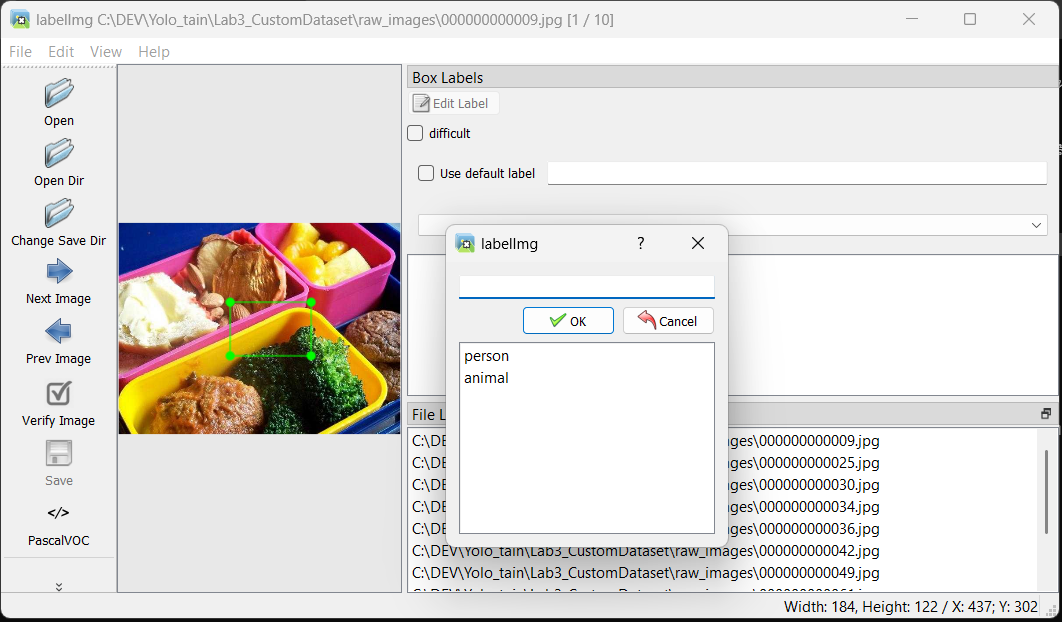
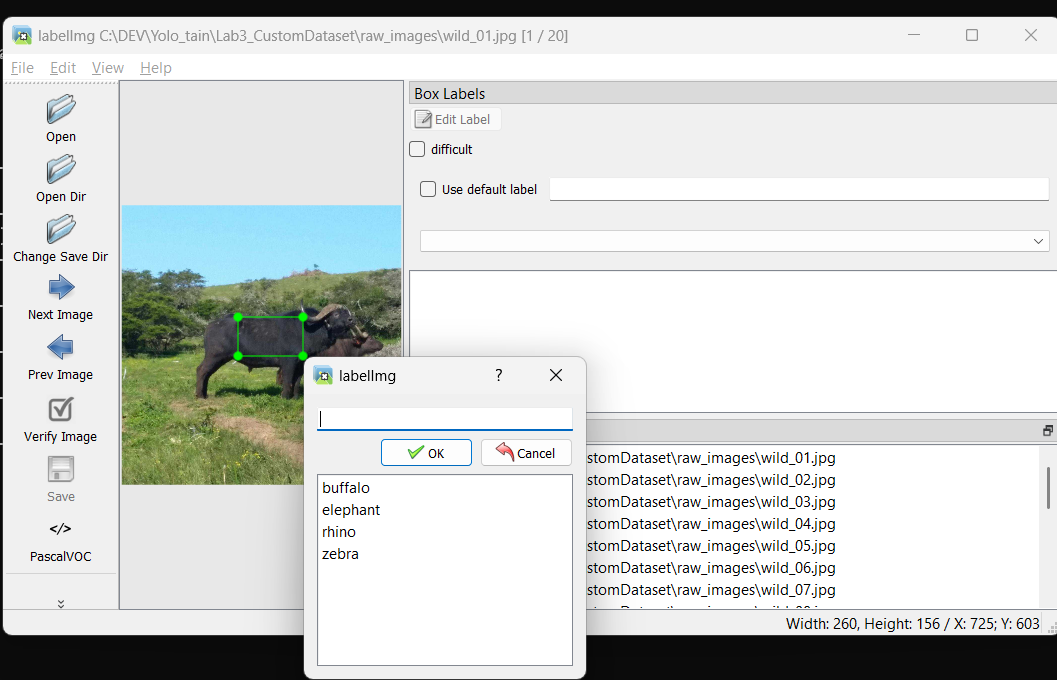
Lab3: recapture the label dialog with the wildlife classes
Last figure owed from the Lab 3 rework. Shows the dialog listing buffalo,
elephant, rhino and zebra straight out of the generated classes.txt, with a box
drawn on the buffalo and the size readout in the status bar - so a student can
check their own screen against it.

Lab 0-4 now have no outstanding figures; MANUAL_PLAN updated to match.

diff --git a/Lab3_CustomDataset/manual.html b/Lab3_CustomDataset/manual.html
@@ -216,7 +216,7 @@ zebra</pre>
 <h4>ขั้นที่ 3 — เลือกชื่อคลาส</h4>
 <figure>
   <img src="../docs/images/lab3_labelimg_label_dialog.png" alt="กล่องเลือกคลาสของ labelImg ที่เด้งขึ้นมาหลังวาดกรอบเสร็จ">
-  <figcaption>พอปล่อยเมาส์ กล่องนี้จะเด้งขึ้นมา — รายการคลาสที่ให้เลือกมาจาก <code>classes.txt</code> ที่สคริปต์ส่งให้ (ของ Lab นี้จะเป็น <code>buffalo</code> / <code>elephant</code> / <code>rhino</code> / <code>zebra</code>) ส่วนแถบล่างของหน้าต่างบอกขนาดกรอบที่เพิ่งวาด</figcaption>
+  <figcaption>พอปล่อยเมาส์ กล่องนี้จะเด้งขึ้นมา — รายการ <code>buffalo</code> / <code>elephant</code> / <code>rhino</code> / <code>zebra</code> มาจาก <code>classes.txt</code> ที่สคริปต์เขียนให้ ส่วนแถบขวาล่างบอกขนาดกรอบที่เพิ่งวาด <code>Width: 260, Height: 156</code></figcaption>
 </figure>
 <div class="warn"><b>ให้คลิกเลือกจากรายการ อย่าพิมพ์ชื่อคลาสเอง</b> — พิมพ์เองมีโอกาสสะกดผิดหรือพิมพ์ชื่อที่ไม่มีใน <code>classes.txt</code> ซึ่งจะทำให้เลข class id เพี้ยนทั้งชุด ถ้าในรายการไม่มีคลาสที่ต้องการ ให้ปิดโปรแกรม ไปเพิ่มบรรทัดใน <code>classes.txt</code> ก่อน แล้วค่อยเปิดใหม่</div>
 

diff --git a/docs/MANUAL_PLAN.md b/docs/MANUAL_PLAN.md
@@ -30,7 +30,7 @@
 | Lab 0 Setup | ✅ | ✅ | ✅ 3 ใบ | **เสร็จ** (+ prefetch.bat) |
 | Lab 1 TrainReadyDataset | ✅ | ✅ | ✅ 3 ใบ | **เสร็จ** |
 | Lab 2 Inference | ✅ | ✅ | ✅ 4 ใบ | **เสร็จ** |
-| Lab 3 CustomDataset | ✅ | ✅ | ⚠ 6 ใบ (3 ใบต้องถ่ายใหม่) | **เสร็จ** — ปรับเป็นแบบฝึก label + มีเฉลย |
+| Lab 3 CustomDataset | ✅ | ✅ | ✅ 6 ใบ | **เสร็จ** — ปรับเป็นแบบฝึก label + มีเฉลย |
 | Lab 4 TrainTuning | ✅ | ✅ | ✅ | **เสร็จ** — เทรน 2 รอบเทียบกัน |
 | Lab 5 Evaluation | ❌ | ❌ | ❌ | ยกไปทำวันหลัง |
 | Lab 6 Export | ❌ | ❌ | ❌ | ยกไปทำวันหลัง |
@@ -39,10 +39,7 @@
 | Lab 9 ConveyorGPIO | ❌ | ❌ | ❌ | ต้องมี Pi + ชุดสายพาน |
 | Lab 10 MiniProject | ❌ | ❌ | ❌ | ทำหลัง Lab 4-6 เสร็จ |
 
-**Lab 0-4 เสร็จครบแล้ว** — งานถัดไปเริ่มที่ Lab 5 พร้อมแก้บั๊กในข้อ 6
-
-ค้างอยู่อย่างเดียว: ภาพ labelImg 3 ใบของ Lab 3 ยังเป็นภาพเก่า (รูป COCO + คลาส person/animal)
-ต้องถ่ายใหม่ให้เป็นรูปสัตว์กับคลาส buffalo/elephant/rhino/zebra
+**Lab 0-4 เสร็จครบแล้ว ไม่มีอะไรค้าง** — งานถัดไปเริ่มที่ Lab 5 พร้อมแก้บั๊กในข้อ 6
 
 ---
 
@@ -314,3 +311,4 @@ python docs/shoot.py pick runs/detect/train/results.png lab4_results -w 900
 | 2026-08-30 | Lab 3 ภาพประกอบ labelImg ครบทุกขั้น | `e7de0db` |
 | 2026-08-30 | Lab 1 คู่มือฉบับเต็ม + ภาพประกอบ 3 ใบ, เพิ่มเอกสารแผนงานนี้ | (commit นี้) |
 | 2026-08-30 | Lab 0 คู่มือฉบับเต็ม + ภาพประกอบ 2 ใบ — ปิดขอบเขต Lab 0-3 | (commit นี้) |
+| 2026-08-30 | Lab 3 ยกเครื่องเป็นแบบฝึก label + เฉลย, Lab 4 เทรน 2 รอบเทียบกัน, Lab 0 prefetch, เครื่องมือ shoot.py | `c4006fd`, `b4d811b`, `59bc263`, `4911513` |
